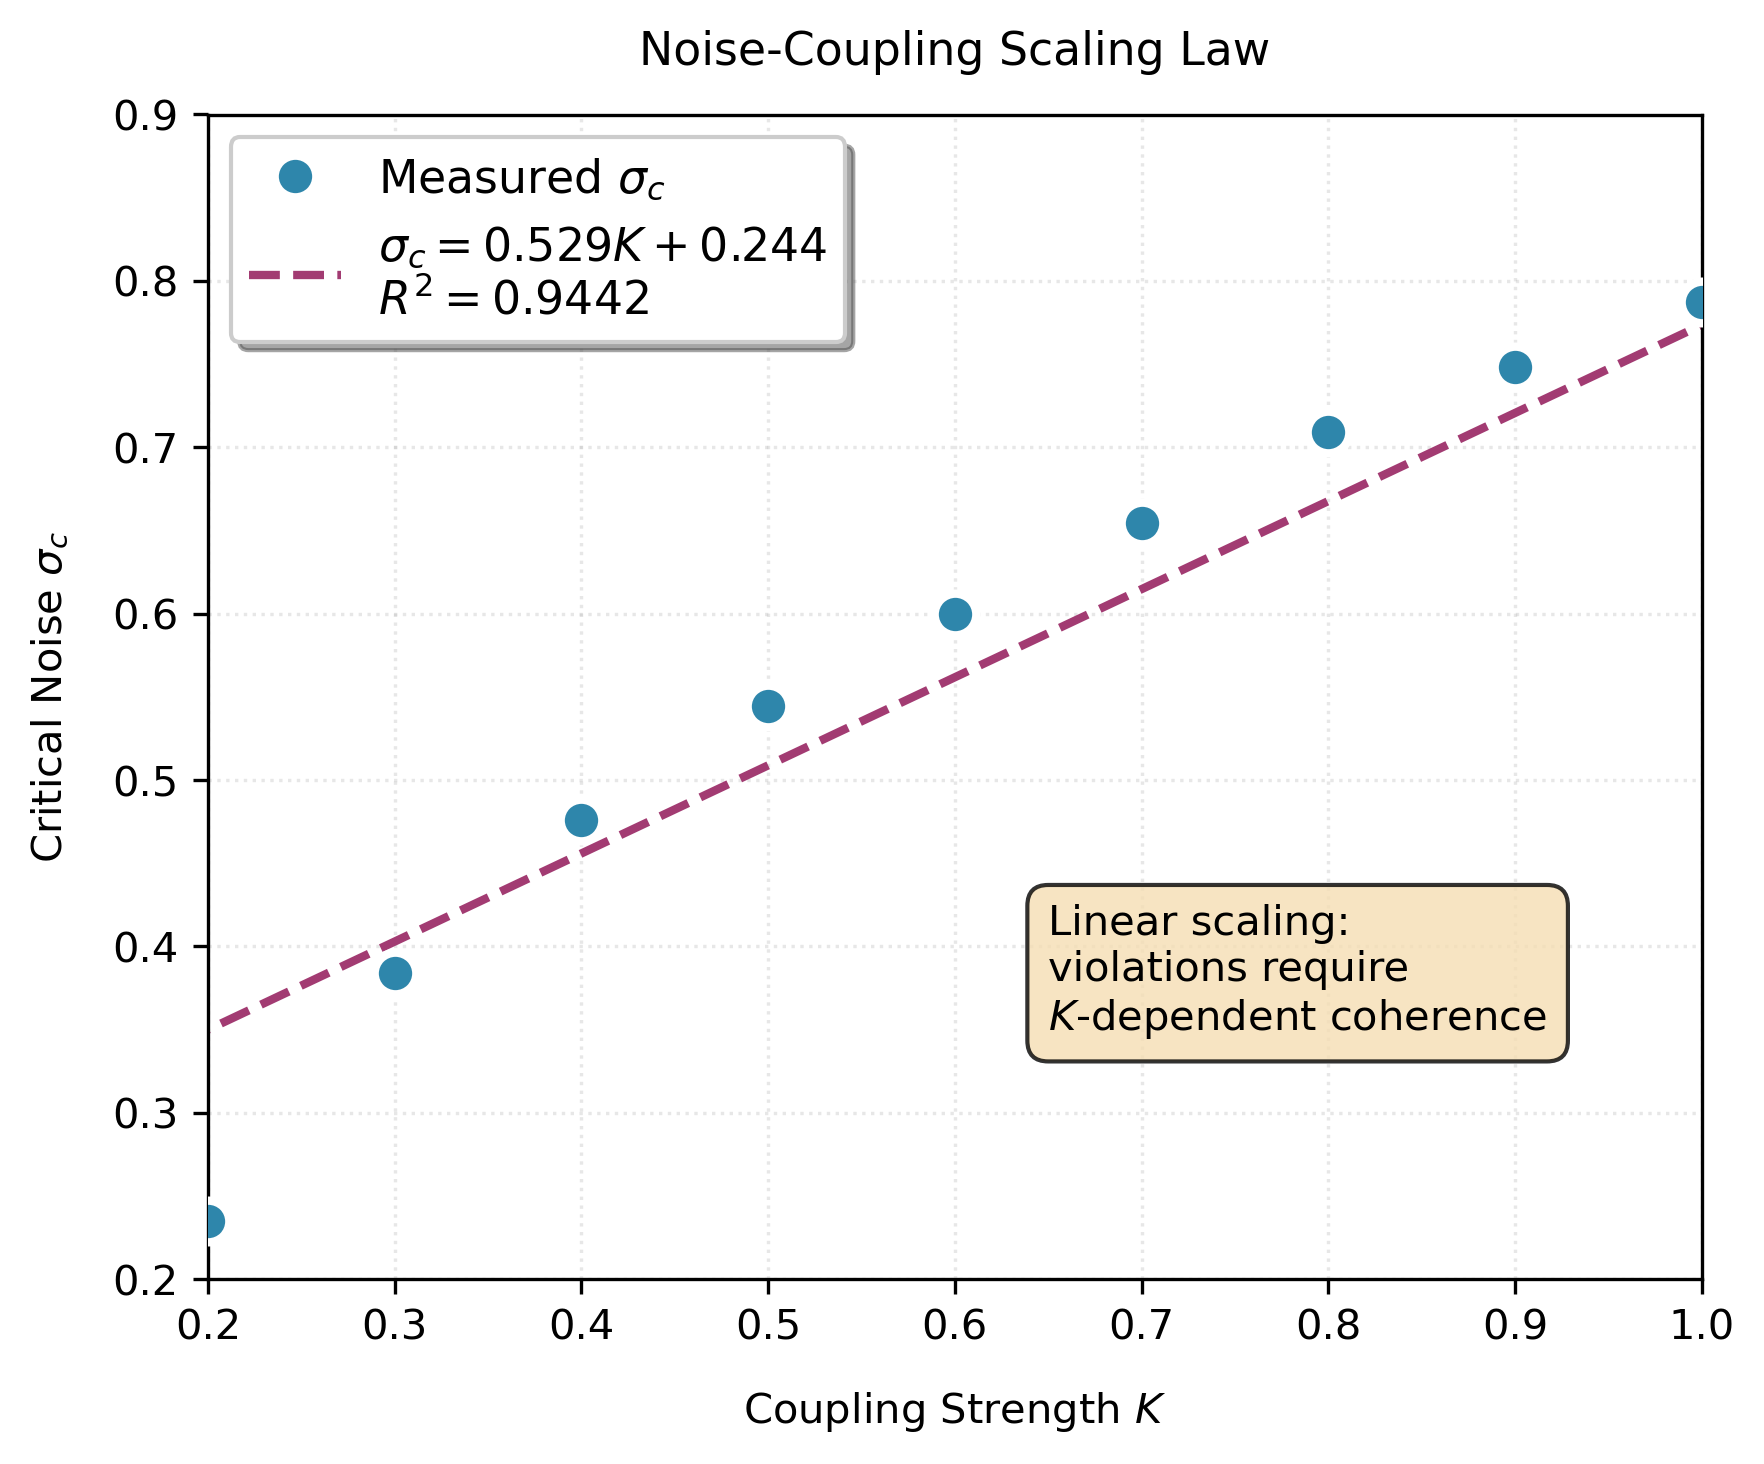
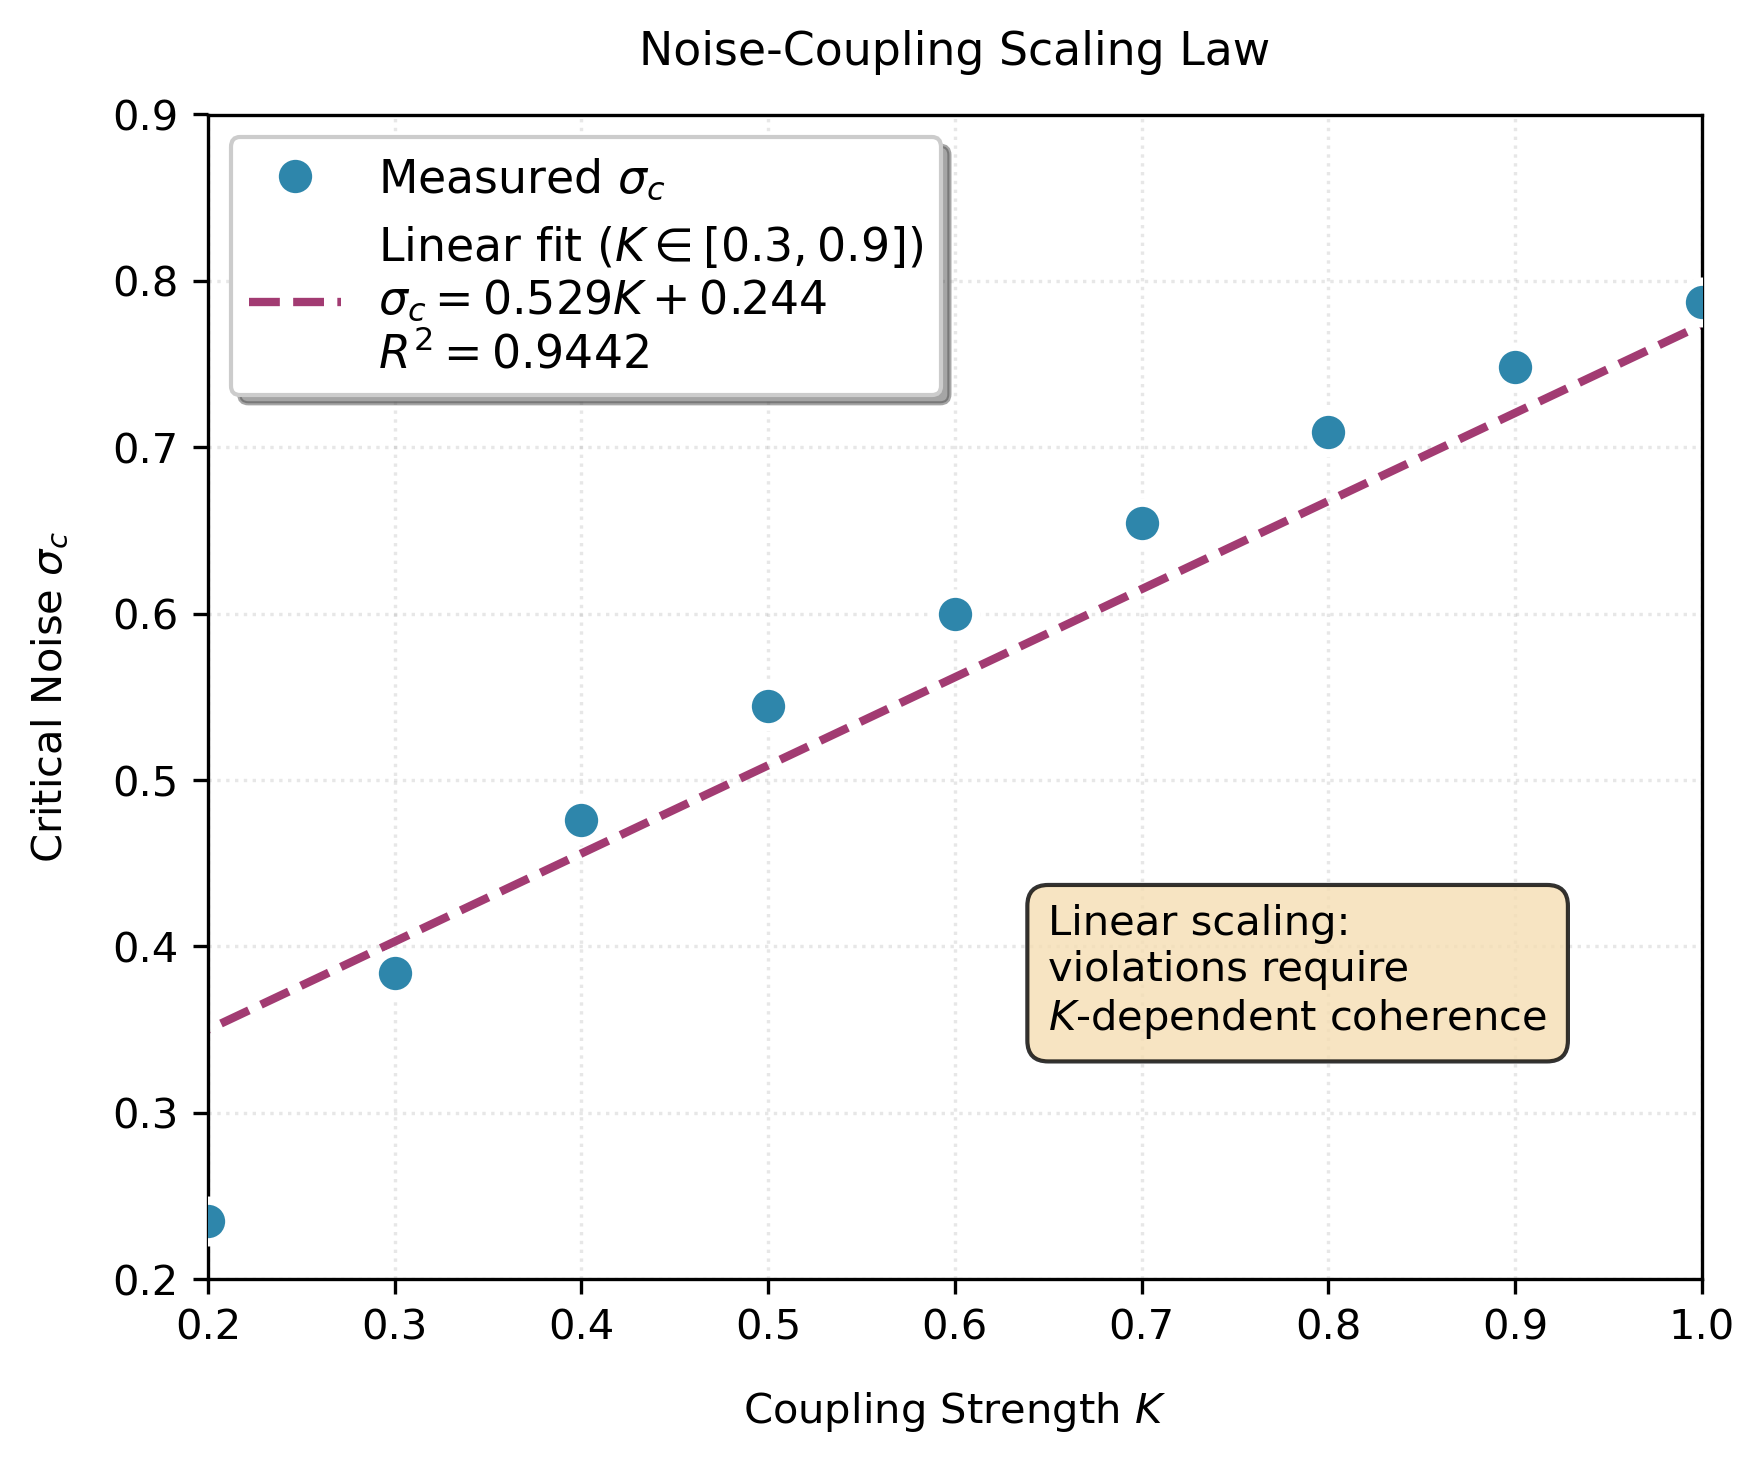
Clean up Figure 2 legend formatting
Updated legend to split cleanly across three lines:
• Measured σ_c
— — — Linear fit (K ∈ [0.3, 0.9])
      σ_c = 0.529K + 0.244
      R² = 0.9442

Makes the fit parameters easier to read and clarifies the
fitting range explicitly in the legend.

🤖 Generated with [Claude Code](https://claude.com/claude-code)

Changed region(s): [[0.1247, 0.0922, 0.5612, 0.2766]]

diff --git a/paper/figures/scripts/generate_fig2_sigma_c_scaling.py b/paper/figures/scripts/generate_fig2_sigma_c_scaling.py
@@ -34,7 +34,7 @@ ax.plot(K_values, sigma_c_values, 'o', markersize=10,
 K_fit = np.linspace(min(K_values) - 0.1, max(K_values) + 0.1, 100)
 sigma_fit = fit['slope'] * K_fit + fit['intercept']
 ax.plot(K_fit, sigma_fit, '--', linewidth=2, color='#A23B72',
-        label=f"$\sigma_c = {fit['slope']:.3f}K + {fit['intercept']:.3f}$\n$R^2 = {fit['r_squared']:.4f}$")
+        label=f"Linear fit ($K \in [0.3, 0.9]$)\n$\sigma_c = {fit['slope']:.3f}K + {fit['intercept']:.3f}$\n$R^2 = {fit['r_squared']:.4f}$")
 
 # Styling - match paper body text size
 ax.set_xlabel('Coupling Strength $K$', fontsize=10)
